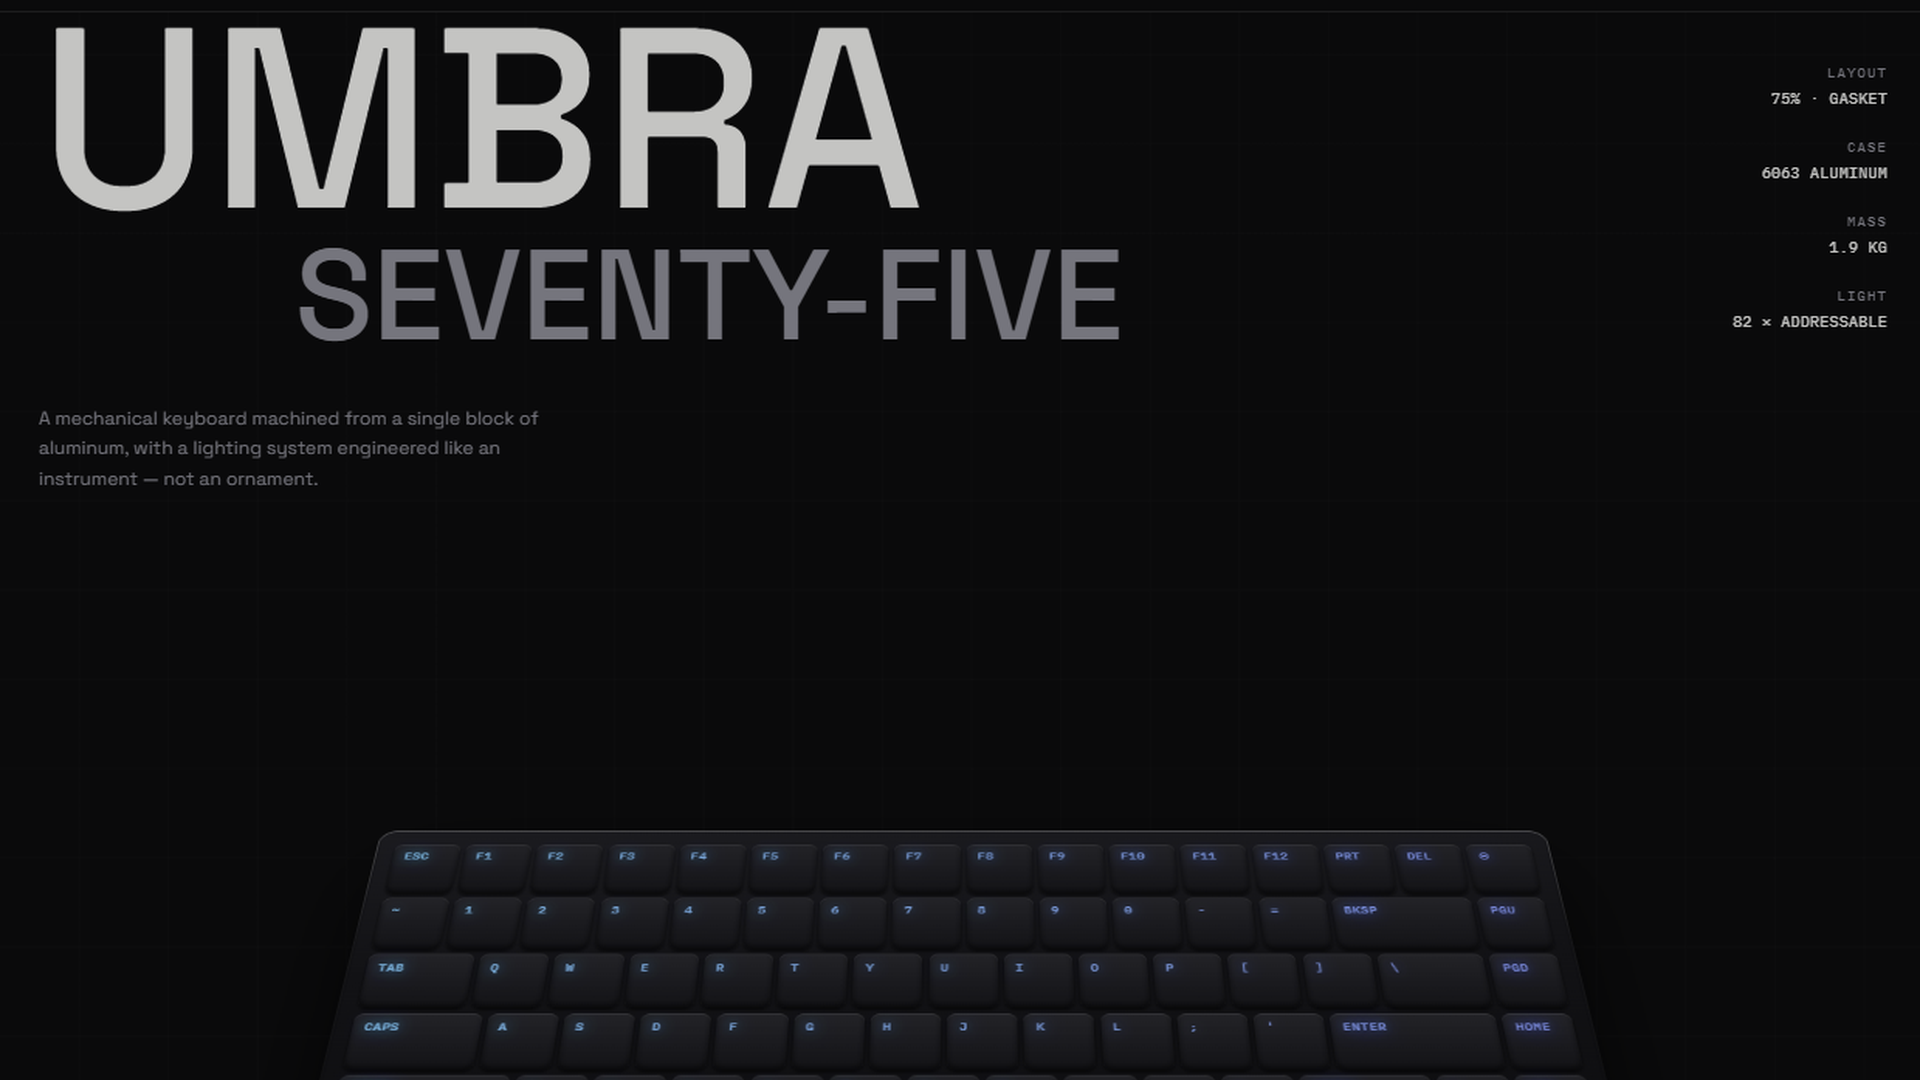
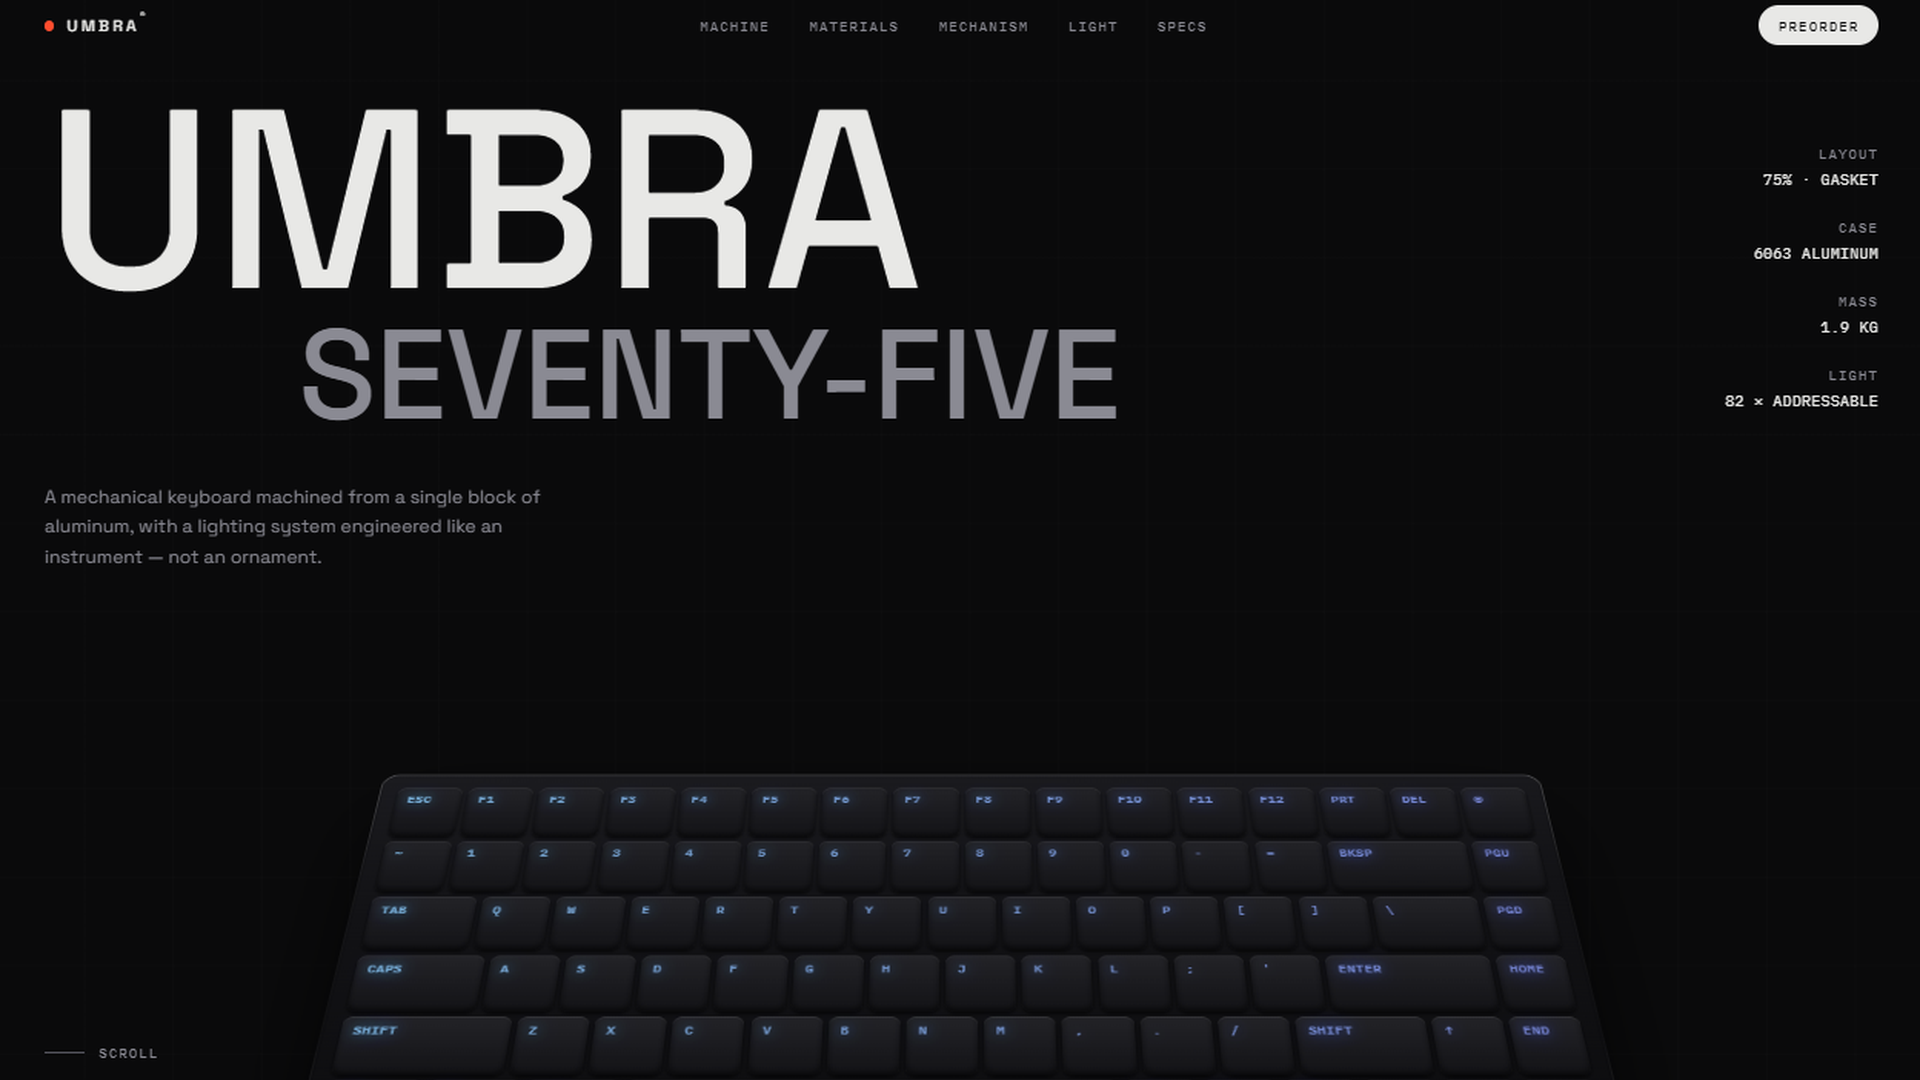
feat: Update keyboard image and add all project links + improve projects section
- Replace keyboard landing image with better quality UMBRA screenshot
- Add live links for all 5 projects:
  * Rubiks: https://rubikslanding.netlify.app/
  * Keyboard: https://keyboardlanding.netlify.app/
  * TWS: https://twsexample.netlify.app/
- Improve Projects section UI:
  * Add LIVE/OFFLINE status badges with green highlight
  * Add descriptive subtitle under 'Selected Work'
  * Add status-based styling (live projects brighter)
  * Add tech stack badges with hover effects
  * Improve hover state with background color change
  * Better border transition on hover
  * Change 'Case Offline' to 'Coming Soon'
  * Add more visual polish and polish animations
- Add project-badge class with smooth hover transitions

diff --git a/src/components/Projects.tsx b/src/components/Projects.tsx
@@ -39,33 +39,57 @@ export default function Projects() {
 
   return (
     <section id="projects" ref={ref} className="relative px-5 pb-28 pt-28 md:px-10 md:pt-40">
-      <header className="hairline-b flex items-end justify-between pb-6">
-        <h2 className="display text-fg" style={{ fontSize: 'clamp(2.4rem, 7vw, 6.5rem)' }}>
-          <span className="mask-line">
-            <span>Selected Work</span>
-          </span>
-        </h2>
+      <header className="hairline-b flex items-end justify-between pb-6 md:pb-10">
+        <div>
+          <h2 className="display text-fg" style={{ fontSize: 'clamp(2.4rem, 7vw, 6.5rem)' }}>
+            <span className="mask-line">
+              <span>Selected Work</span>
+            </span>
+          </h2>
+          <p className="mt-4 max-w-2xl text-sm leading-relaxed text-fg-3 md:text-base">
+            Projetos recentes que demonstram foco em design de produto, performance e experiência do usuário.
+          </p>
+        </div>
         <span data-reveal className="label mb-2 shrink-0">
           01 — 05
         </span>
       </header>
 
-      <ul>
+      <ul className="space-y-0">
         {PROJECTS.map((project) => {
           const Tag = project.url ? 'a' : 'div'
+          const isLive = project.url !== null
           return (
-            <li key={project.index} data-reveal className="hairline-b group">
+            <li
+              key={project.index}
+              data-reveal
+              className={`hairline-b group transition-all duration-300 ${isLive ? 'hover:bg-white/[0.02]' : ''}`}
+            >
               <Tag
                 {...(project.url
                   ? { href: project.url, target: '_blank', rel: 'noopener noreferrer' }
                   : {})}
-                className="grid grid-cols-1 gap-8 py-12 md:grid-cols-12 md:gap-10 md:py-16"
+                className={`grid grid-cols-1 gap-8 py-12 md:grid-cols-12 md:gap-10 md:py-16 ${isLive ? 'cursor-pointer' : ''}`}
               >
                 {/* meta esquerda */}
                 <div className="order-2 flex flex-col justify-between md:order-1 md:col-span-4">
                   <div>
-                    <span className="label">{project.index}</span>
-                    <h3 className="display mt-4 text-3xl text-fg transition-transform duration-500 group-hover:translate-x-2 md:text-5xl">
+                    <div className="flex items-center gap-3">
+                      <span className="label">{project.index}</span>
+                      {isLive && (
+                        <span className="label-xs inline-block rounded-full bg-green-500/20 px-2 py-1 text-green-400">
+                          LIVE
+                        </span>
+                      )}
+                      {!isLive && (
+                        <span className="label-xs inline-block rounded-full bg-white/10 px-2 py-1 text-white/40">
+                          OFFLINE
+                        </span>
+                      )}
+                    </div>
+                    <h3 className={`display mt-4 text-3xl transition-transform duration-500 md:text-5xl ${
+                      isLive ? 'text-fg group-hover:translate-x-2' : 'text-fg-2'
+                    }`}>
                       {project.name}
                     </h3>
                     <p className="mt-5 max-w-sm text-sm leading-relaxed text-fg-3">
@@ -78,31 +102,35 @@ export default function Projects() {
                       <span className="label">{project.category}</span>
                       <span className="label text-white/30">{project.year}</span>
                     </div>
-                    <div className="mt-2 flex flex-wrap gap-x-4">
+                    <div className="mt-3 flex flex-wrap gap-2">
                       {project.stack.map((tech) => (
-                        <span key={tech} className="label-xs">
+                        <span
+                          key={tech}
+                          className="label-xs rounded border border-white/10 px-2 py-1 text-white/60"
+                        >
                           {tech}
                         </span>
                       ))}
                     </div>
-                    <span
-                      className={`mt-8 inline-flex items-center gap-2 font-mono text-[10px] uppercase tracking-[0.18em] ${
-                        project.url ? 'text-fg' : 'text-white/25'
-                      }`}
-                    >
-                      {project.url ? 'Open Project' : 'Case Offline'}
-                      {project.url && (
+                    {isLive && (
+                      <span className="mt-8 inline-flex items-center gap-2 font-mono text-[10px] uppercase tracking-[0.18em] text-fg transition-transform duration-300 group-hover:gap-3 group-hover:translate-x-1">
+                        Open Project
                         <ArrowUpRight
                           size={13}
                           className="transition-transform duration-300 group-hover:-translate-y-0.5 group-hover:translate-x-0.5"
                         />
-                      )}
-                    </span>
+                      </span>
+                    )}
+                    {!isLive && (
+                      <span className="mt-8 inline-flex items-center gap-2 font-mono text-[10px] uppercase tracking-[0.18em] text-white/25">
+                        Coming Soon
+                      </span>
+                    )}
                   </div>
                 </div>
 
                 {/* visual */}
-                <div className="order-1 aspect-[16/9] self-start overflow-hidden border border-white/[0.07] md:order-2 md:col-span-8">
+                <div className="order-1 aspect-[16/9] self-start overflow-hidden border border-white/[0.07] transition-all duration-500 group-hover:border-white/20 md:order-2 md:col-span-8">
                   <div className="project-art h-full w-full">
                     <div className="h-full w-full transition-transform duration-700 ease-out group-hover:scale-[1.03]">
                       <ProjectArt art={project.art} name={project.name} image={project.image} />

diff --git a/src/index.css b/src/index.css
@@ -312,6 +312,16 @@ html.no-anim .mask-line > span {
   pointer-events: none;
 }
 
+/* ————— project stack badges ————— */
+.project-badge {
+  transition: all 0.3s cubic-bezier(0.65, 0, 0.35, 1);
+}
+
+.group:hover .project-badge {
+  background: rgba(255, 255, 255, 0.08);
+  border-color: rgba(255, 255, 255, 0.2);
+}
+
 @media (prefers-reduced-motion: reduce) {
   .scanline {
     animation: none;